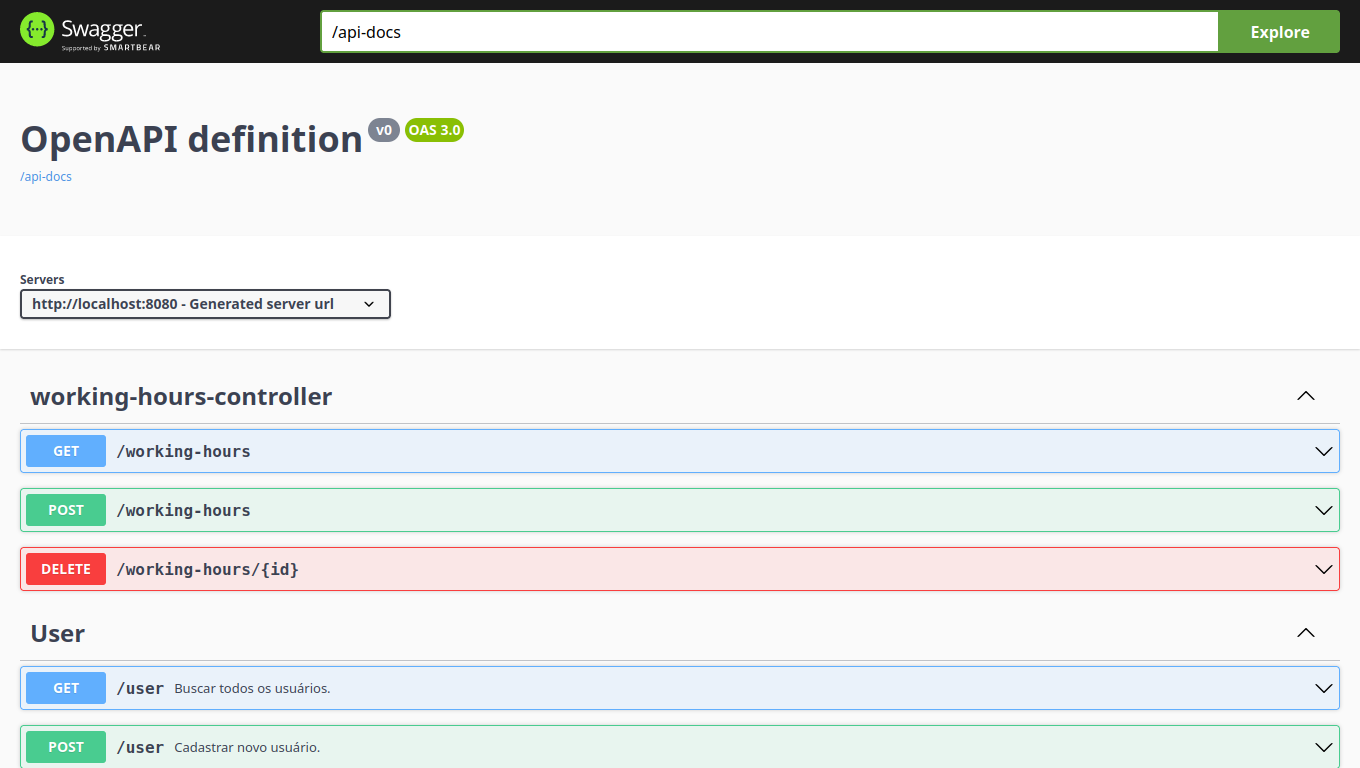
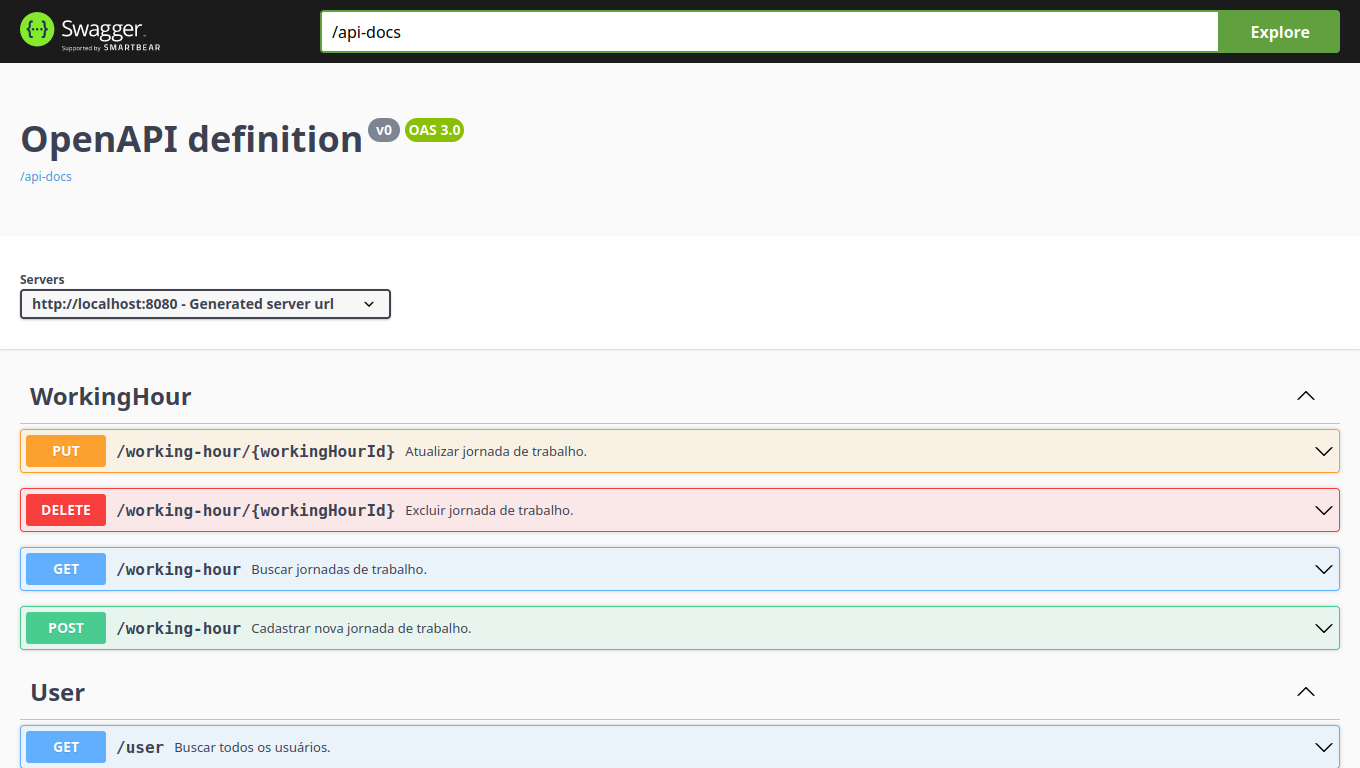
Refatoracao de recursos da jornada de trabalho

diff --git a/src/main/java/com/jubasbackend/api/WorkingHourApi.java b/src/main/java/com/jubasbackend/api/WorkingHourApi.java
@@ -1,0 +1,53 @@
+package com.jubasbackend.api;
+
+import com.jubasbackend.api.dto.request.WorkingHourRequest;
+import com.jubasbackend.api.dto.response.WorkingHourResponse;
+import io.swagger.v3.oas.annotations.Operation;
+import io.swagger.v3.oas.annotations.media.Content;
+import io.swagger.v3.oas.annotations.responses.ApiResponse;
+import io.swagger.v3.oas.annotations.responses.ApiResponses;
+import io.swagger.v3.oas.annotations.tags.Tag;
+import org.springframework.http.ResponseEntity;
+import org.springframework.web.bind.annotation.*;
+
+import java.util.List;
+import java.util.UUID;
+
+@Tag(name = "WorkingHour")
+public interface WorkingHourApi {
+
+    @Operation(summary = "Buscar jornadas de trabalho.", method = "GET")
+    @ApiResponses(value = {
+            @ApiResponse(responseCode = "200", description = "Busca realizada com sucesso."),
+            @ApiResponse(responseCode = "500", description = "Erro ao buscar jornadas de trabalho.", content = @Content)
+    })
+    @GetMapping
+    ResponseEntity<List<WorkingHourResponse>> findWorkingHours();
+
+    @Operation(summary = "Cadastrar nova jornada de trabalho.", method = "POST")
+    @ApiResponses(value = {
+            @ApiResponse(responseCode = "201", description = "Cadastro realizado com sucesso.", content = @Content),
+            @ApiResponse(responseCode = "400", description = "Parâmetros inválidos.", content = @Content),
+            @ApiResponse(responseCode = "401", description = "Jornada de trabalho já cadastrada.", content = @Content),
+            @ApiResponse(responseCode = "500", description = "Erro ao cadastrar jornada de trabalho.", content = @Content)
+    })
+    @PostMapping
+    ResponseEntity<Void> createWorkingHour(@RequestBody WorkingHourRequest request);
+
+    @Operation(summary = "Atualizar jornada de trabalho.", method = "PUT")
+    @ApiResponses(value = {
+            @ApiResponse(responseCode = "204", description = "Jornada de trabalho atualizada com sucesso.", content = @Content),
+            @ApiResponse(responseCode = "404", description = "Registro não encontrado.", content = @Content),
+            @ApiResponse(responseCode = "500", description = "Erro ao atualizar jornada de trabalho.", content = @Content)
+    })
+    @PutMapping("/{workingHourId}")
+    ResponseEntity<Void> updateWorkingHour(@PathVariable UUID workingHourId, @RequestBody WorkingHourRequest request);
+
+    @Operation(summary = "Excluir jornada de trabalho.", method = "DELETE")
+    @ApiResponses(value = {
+            @ApiResponse(responseCode = "204", description = "Exclusão realizada com sucesso.", content = @Content),
+            @ApiResponse(responseCode = "500", description = "Erro ao excluir jornada de trabalho.", content = @Content)
+    })
+    @DeleteMapping("/{workingHourId}")
+    ResponseEntity<Void> deleteWorkingHour(@PathVariable UUID workingHourId);
+}

diff --git a/src/main/java/com/jubasbackend/service/impl/WorkingHourServiceImpl.java b/src/main/java/com/jubasbackend/service/impl/WorkingHourServiceImpl.java
@@ -1,0 +1,61 @@
+package com.jubasbackend.service.impl;
+
+import com.jubasbackend.api.dto.request.WorkingHourRequest;
+import com.jubasbackend.api.dto.response.WorkingHourResponse;
+import com.jubasbackend.infrastructure.entity.WorkingHourEntity;
+import com.jubasbackend.infrastructure.repository.WorkingHourRepository;
+import com.jubasbackend.service.WorkingHourService;
+import lombok.RequiredArgsConstructor;
+import org.springframework.stereotype.Service;
+
+import java.time.LocalTime;
+import java.util.List;
+import java.util.NoSuchElementException;
+import java.util.UUID;
+
+@Service
+@RequiredArgsConstructor
+public class WorkingHourServiceImpl implements WorkingHourService {
+
+    private final WorkingHourRepository repository;
+
+    public WorkingHourEntity findWorkingHourOnRepository(UUID workingHourId) {
+        return repository.findById(workingHourId).orElseThrow(
+                () -> new NoSuchElementException("Unregistered working hours."));
+    }
+
+    public boolean areTimesRegisteredOnRepository(LocalTime startTime, LocalTime startInterval, LocalTime endInterval, LocalTime endTime) {
+        return repository.existsByStartTimeAndStartIntervalAndEndIntervalAndEndTime(startTime, startInterval, endInterval, endTime);
+    }
+
+    @Override
+    public List<WorkingHourResponse> findWorkingHours() {
+        return repository.findAll().stream().map(WorkingHourResponse::new).toList();
+    }
+
+    @Override
+    public WorkingHourResponse createWorkingHour(WorkingHourRequest request) {
+        if (areTimesRegisteredOnRepository(request.startTime(), request.startInterval(), request.endInterval(), request.endTime()))
+            throw new IllegalArgumentException("Working hours already exists.");
+
+        var newWorkingHour = new WorkingHourEntity(request);
+        newWorkingHour.validate();
+
+        return new WorkingHourResponse(repository.save(newWorkingHour));
+    }
+
+    @Override
+    public void updateWorkingHour(UUID workingHourId, WorkingHourRequest request) {
+        var workingHour = findWorkingHourOnRepository(workingHourId);
+        workingHour.update(request);
+        workingHour.validate();
+        repository.save(workingHour);
+    }
+
+    @Override
+    public void deleteWorkingHour(UUID workingHourId) {
+        repository.deleteById(workingHourId);
+    }
+
+
+}

diff --git a/src/main/java/com/jubasbackend/api/controller/WorkingHourController.java b/src/main/java/com/jubasbackend/api/controller/WorkingHourController.java
@@ -1,0 +1,45 @@
+package com.jubasbackend.api.controller;
+
+import com.jubasbackend.api.WorkingHourApi;
+import com.jubasbackend.api.dto.request.WorkingHourRequest;
+import com.jubasbackend.api.dto.response.WorkingHourResponse;
+import com.jubasbackend.service.WorkingHourService;
+import lombok.RequiredArgsConstructor;
+import org.springframework.http.ResponseEntity;
+import org.springframework.web.bind.annotation.RequestMapping;
+import org.springframework.web.bind.annotation.RestController;
+
+import java.net.URI;
+import java.util.List;
+import java.util.UUID;
+
+@RestController
+@RequiredArgsConstructor
+@RequestMapping("/working-hour")
+public class WorkingHourController implements WorkingHourApi {
+
+    private final WorkingHourService service;
+
+    @Override
+    public ResponseEntity<List<WorkingHourResponse>> findWorkingHours() {
+        return ResponseEntity.ok(service.findWorkingHours());
+    }
+
+    @Override
+    public ResponseEntity<Void> createWorkingHour(WorkingHourRequest request) {
+        var createdWorkingHour = service.createWorkingHour(request);
+        return ResponseEntity.created(URI.create("working-hour/" + createdWorkingHour.id())).build();
+    }
+
+    @Override
+    public ResponseEntity<Void> updateWorkingHour(UUID workingHourId, WorkingHourRequest request) {
+        service.updateWorkingHour(workingHourId, request);
+        return ResponseEntity.noContent().build();
+    }
+
+    @Override
+    public ResponseEntity<Void> deleteWorkingHour(UUID workingHourId) {
+        service.deleteWorkingHour(workingHourId);
+        return ResponseEntity.noContent().build();
+    }
+}

diff --git a/src/main/java/com/jubasbackend/infrastructure/entity/WorkingHourEntity.java b/src/main/java/com/jubasbackend/infrastructure/entity/WorkingHourEntity.java
@@ -12,6 +12,7 @@ import java.util.UUID;
 @Setter
 @NoArgsConstructor
 @AllArgsConstructor
+@EqualsAndHashCode(of = {"startTime", "endTime", "startInterval", "endInterval"})
 @Builder
 @Entity(name = "tb_working_hour")
 public class WorkingHourEntity {
@@ -32,4 +33,27 @@ public class WorkingHourEntity {
         this.endInterval = workingHour.endInterval();
         this.endTime = workingHour.endTime();
     }
+
+    public void update(WorkingHourRequest request) {
+        this.startTime = request.startTime();
+        this.endTime = request.endTime();
+        this.startInterval = request.startInterval();
+        this.endInterval = request.endInterval();
+    }
+
+    public void validate() {
+        if (this.startTime.isAfter(this.endTime))
+            throw new IllegalArgumentException("The start time of the working day cannot be less than the end time.");
+
+        //CHECK IF BREAK TIMES ARE PROVIDED AND VALIDATE THEN
+        if (!(this.startInterval.toString().isBlank() && this.endInterval.toString().isBlank())) {
+            if (this.startTime.isAfter(this.startInterval))
+                throw new IllegalArgumentException("The start time cannot be less than the break time.");
+
+            if (this.endTime.isBefore(this.endInterval))
+                throw new IllegalArgumentException("The end time cannot be before the break time");
+
+        }
+    }
+
 }

diff --git a/src/main/java/com/jubasbackend/api/dto/request/WorkingHourRequest.java b/src/main/java/com/jubasbackend/api/dto/request/WorkingHourRequest.java
@@ -1,6 +1,7 @@
 package com.jubasbackend.api.dto.request;
 
 import com.fasterxml.jackson.annotation.JsonFormat;
+import io.swagger.v3.oas.annotations.media.Schema;
 import jakarta.validation.constraints.NotBlank;
 import jakarta.validation.constraints.NotNull;
 
@@ -9,19 +10,21 @@ import java.time.LocalTime;
 public record WorkingHourRequest(
         @NotBlank
         @NotNull
+        @Schema(type = "String", pattern = "HH:mm")
         @JsonFormat(pattern = "HH:mm")
         LocalTime startTime,
         @NotBlank
         @NotNull
+        @Schema(type = "String", pattern = "HH:mm")
         @JsonFormat(pattern = "HH:mm")
         LocalTime endTime,
-        @NotBlank
-        @NotNull
+        @Schema(type = "String", pattern = "HH:mm")
         @JsonFormat(pattern = "HH:mm")
+        @NotNull
         LocalTime startInterval,
-        @NotBlank
-        @NotNull
+        @Schema(type = "String", pattern = "HH:mm")
         @JsonFormat(pattern = "HH:mm")
+        @NotNull
         LocalTime endInterval
 ) {
 }

diff --git a/src/main/java/com/jubasbackend/service/WorkingHourService.java b/src/main/java/com/jubasbackend/service/WorkingHourService.java
@@ -1,0 +1,19 @@
+package com.jubasbackend.service;
+
+import com.jubasbackend.api.dto.request.WorkingHourRequest;
+import com.jubasbackend.api.dto.response.WorkingHourResponse;
+
+import java.util.List;
+import java.util.UUID;
+
+public interface WorkingHourService {
+
+    List<WorkingHourResponse> findWorkingHours();
+
+    WorkingHourResponse createWorkingHour(WorkingHourRequest request);
+
+    void updateWorkingHour(UUID workingHourId, WorkingHourRequest request);
+
+    void deleteWorkingHour(UUID workingHourId);
+
+}

diff --git a/src/main/java/com/jubasbackend/api/SpecialtyApi.java b/src/main/java/com/jubasbackend/api/SpecialtyApi.java
@@ -14,7 +14,7 @@ import org.springframework.web.bind.annotation.*;
 import java.util.List;
 import java.util.UUID;
 
-@Tag(name = "Speacialty")
+@Tag(name = "Specialty")
 public interface SpecialtyApi {
 
     @Operation(summary = "Buscar especialidades.", method = "GET")
